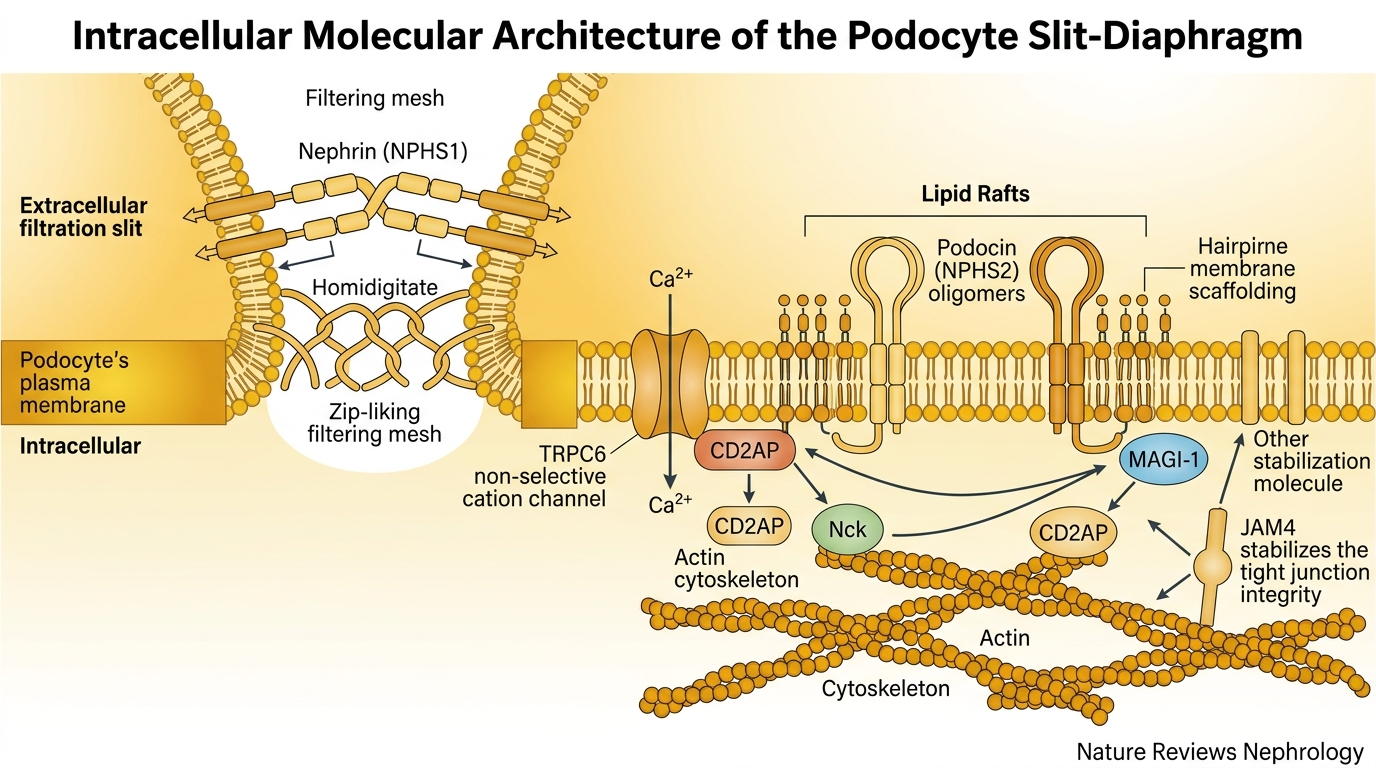
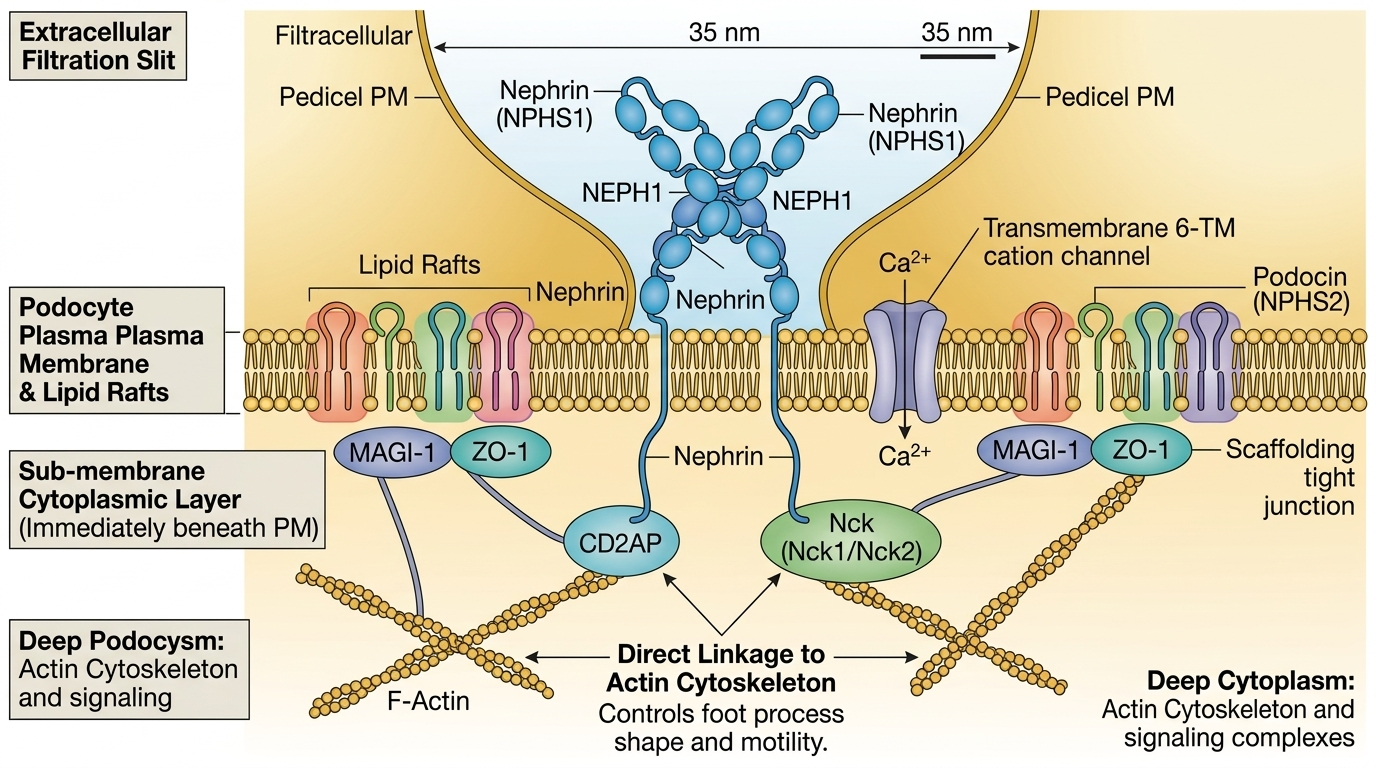
Save workspace changes: refactor /tn-exam-tutor skill, update tutorial UI, and refine 2026 Mackay tutorial

diff --git a/src/components/TutorialReaderView.tsx b/src/components/TutorialReaderView.tsx
@@ -201,7 +201,7 @@ export const TutorialReaderView: React.FC<TutorialReaderViewProps> = ({
               {/* Module Reference Micrographs / Standalone Figures Gallery */}
               {(() => {
                 const standaloneDiagrams = activeModule.diagrams?.filter(
-                  (diag) => !activeModule.sections.some((sec) => sec.diagram?.id === diag.id)
+                  (diag) => !activeModule.sections.some((sec) => sec.diagram?.id === diag.id || sec.diagrams?.some((d) => d.id === diag.id))
                 ) || [];
                 const has1to1Matching = activeModule.diagrams?.length === activeModule.sections.length;
 
@@ -267,11 +267,13 @@ export const TutorialReaderView: React.FC<TutorialReaderViewProps> = ({
               {/* Interleaved Lecture Chapters (解釋圖片 -> 解釋文字) */}
               <div className="space-y-10 pt-6 border-t border-slate-200/60 dark:border-slate-800">
                 {activeModule.sections.map((sec, sIdx) => {
-                  const secDiagram = sec.diagram || (
-                    activeModule.diagrams && activeModule.diagrams.length === activeModule.sections.length
-                      ? activeModule.diagrams[sIdx]
-                      : null
-                  );
+                  const secDiagrams: TutorialDiagram[] = sec.diagrams && sec.diagrams.length > 0
+                    ? sec.diagrams
+                    : (sec.diagram ? [sec.diagram] : (
+                        activeModule.diagrams && activeModule.diagrams.length === activeModule.sections.length
+                          ? [activeModule.diagrams[sIdx]]
+                          : []
+                      ));
 
                   return (
                     <div key={sIdx} className="space-y-4">
@@ -281,9 +283,10 @@ export const TutorialReaderView: React.FC<TutorialReaderViewProps> = ({
                         <span>{sec.heading}</span>
                       </h3>
 
-                      {/* Explanation Image (解釋圖片) */}
-                      {secDiagram && (
+                      {/* Explanation Images (解釋圖片) */}
+                      {secDiagrams.map((diag) => (
                         <div
+                          key={diag.id}
                           className={`p-4 md:p-5 rounded-2xl border shadow-sm space-y-3 transition-all ${
                             isLight ? 'bg-slate-50/80 border-slate-200' : 'bg-slate-950/60 border-slate-800'
                           }`}
@@ -291,12 +294,12 @@ export const TutorialReaderView: React.FC<TutorialReaderViewProps> = ({
                           <div className="flex items-center justify-between">
                             <span className="px-2.5 py-0.5 rounded-full bg-sky-500/10 text-sky-700 dark:text-sky-300 text-[11px] font-mono font-extrabold border border-sky-500/20 flex items-center gap-1">
                               <FileImage className="w-3 h-3 text-sky-500" />
-                              <span>{secDiagram.sourceBook || 'AI Medical Illustration'}</span>
+                              <span>{diag.sourceBook || 'AI Medical Illustration'}</span>
                             </span>
 
-                            {secDiagram.imagePath && (
+                            {diag.imagePath && (
                               <button
-                                onClick={() => setZoomDiagram(secDiagram)}
+                                onClick={() => setZoomDiagram(diag)}
                                 className="text-xs font-bold text-slate-500 hover:text-sky-600 flex items-center gap-1 cursor-pointer transition-all"
                               >
                                 <Maximize2 className="w-3.5 h-3.5" />
@@ -305,26 +308,26 @@ export const TutorialReaderView: React.FC<TutorialReaderViewProps> = ({
                             )}
                           </div>
 
-                          {secDiagram.imagePath && (
+                          {diag.imagePath && (
                             <div
-                              onClick={() => setZoomDiagram(secDiagram)}
+                              onClick={() => setZoomDiagram(diag)}
                               className="overflow-hidden rounded-xl border border-slate-200 dark:border-slate-800 bg-white dark:bg-slate-900 p-2 flex justify-center cursor-pointer group"
                             >
                               <img
-                                src={secDiagram.imagePath}
-                                alt={secDiagram.caption}
+                                src={diag.imagePath}
+                                alt={diag.caption}
                                 className="w-full max-h-[500px] object-contain rounded-lg transition-transform duration-300 group-hover:scale-[1.01]"
                               />
                             </div>
                           )}
 
-                          {secDiagram.caption && (
+                          {diag.caption && (
                             <p className="text-xs font-bold text-center text-slate-600 dark:text-slate-400 italic leading-relaxed">
-                              {secDiagram.caption}
+                              {diag.caption}
                             </p>
                           )}
                         </div>
-                      )}
+                      ))}
 
                       {/* Explanation Text (解釋文字) */}
                       {sec.content && (

diff --git a/src/types/exam.ts b/src/types/exam.ts
@@ -139,6 +139,7 @@ export interface TutorialSection {
   heading: string;
   content?: string;
   diagram?: TutorialDiagram;
+  diagrams?: TutorialDiagram[];
   items?: TutorialItem[];
   keyTerms?: string[];
   tables?: Array<{
